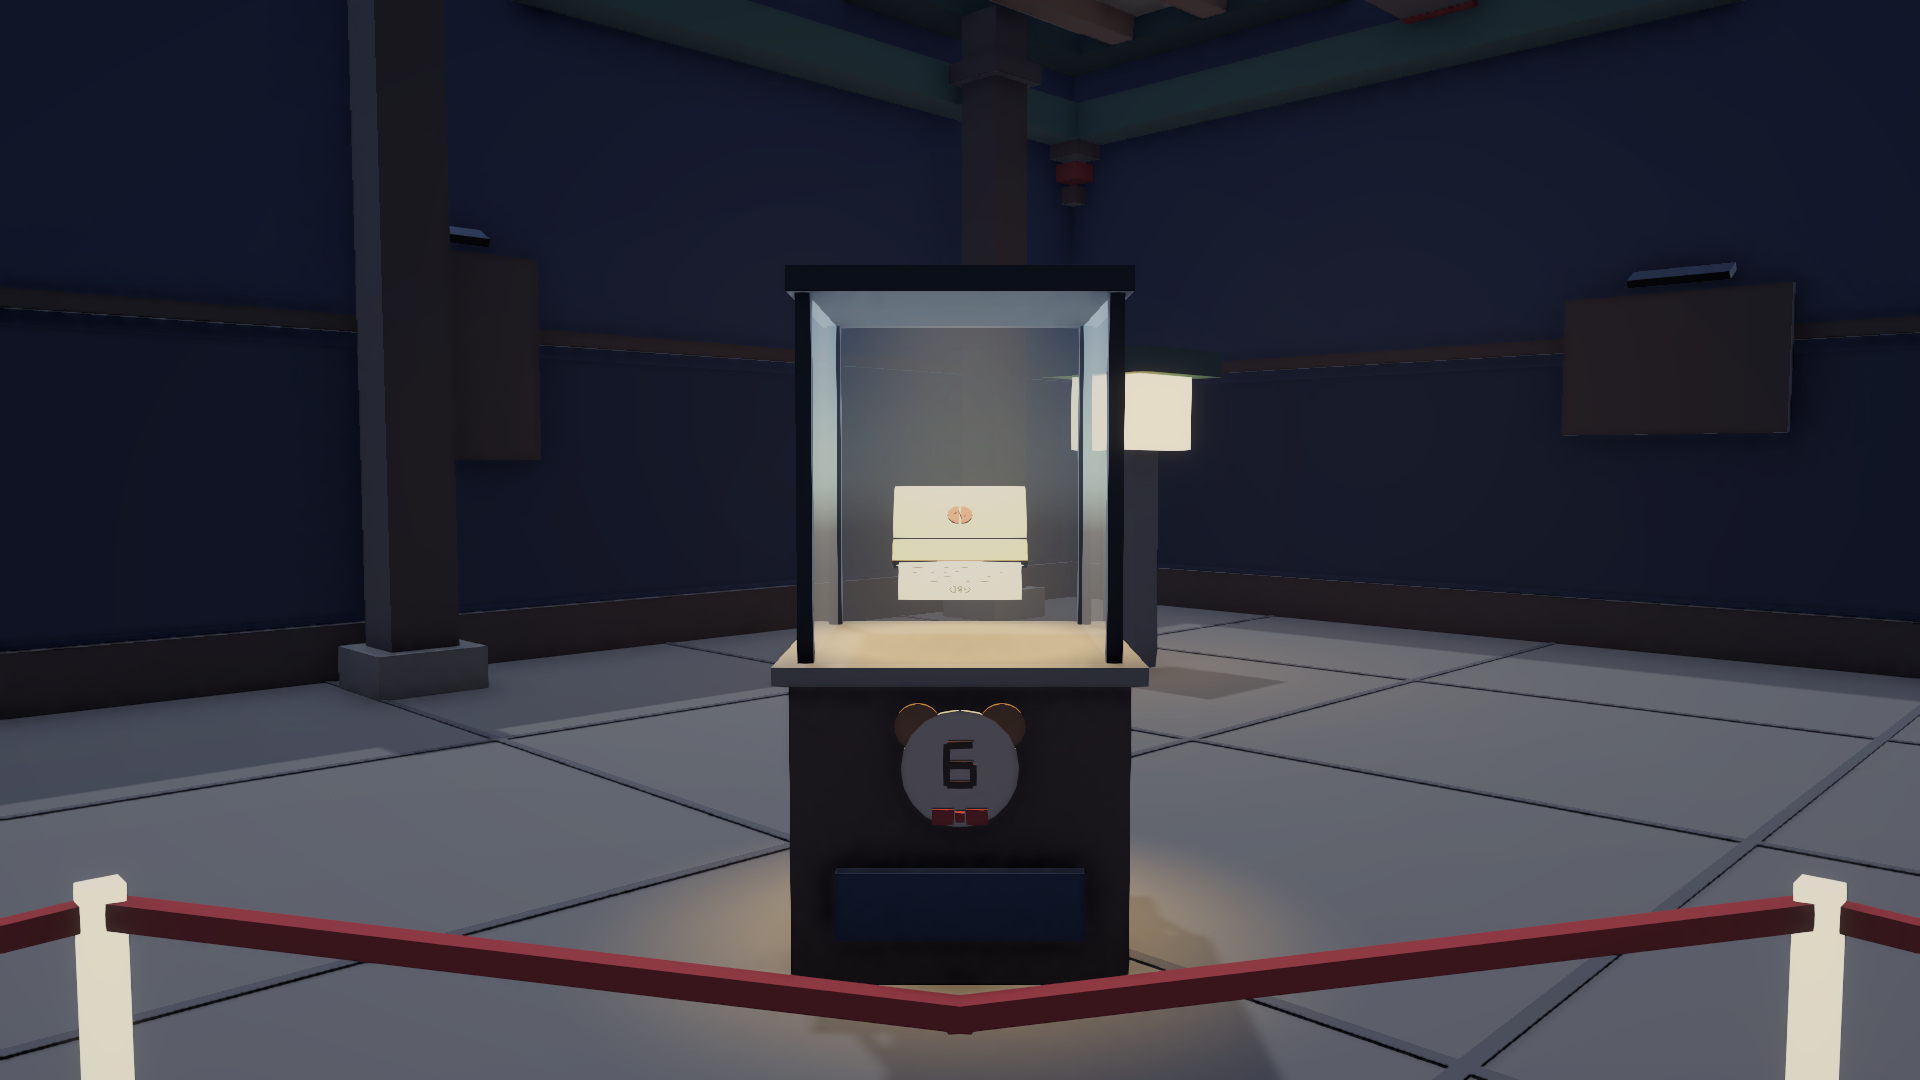
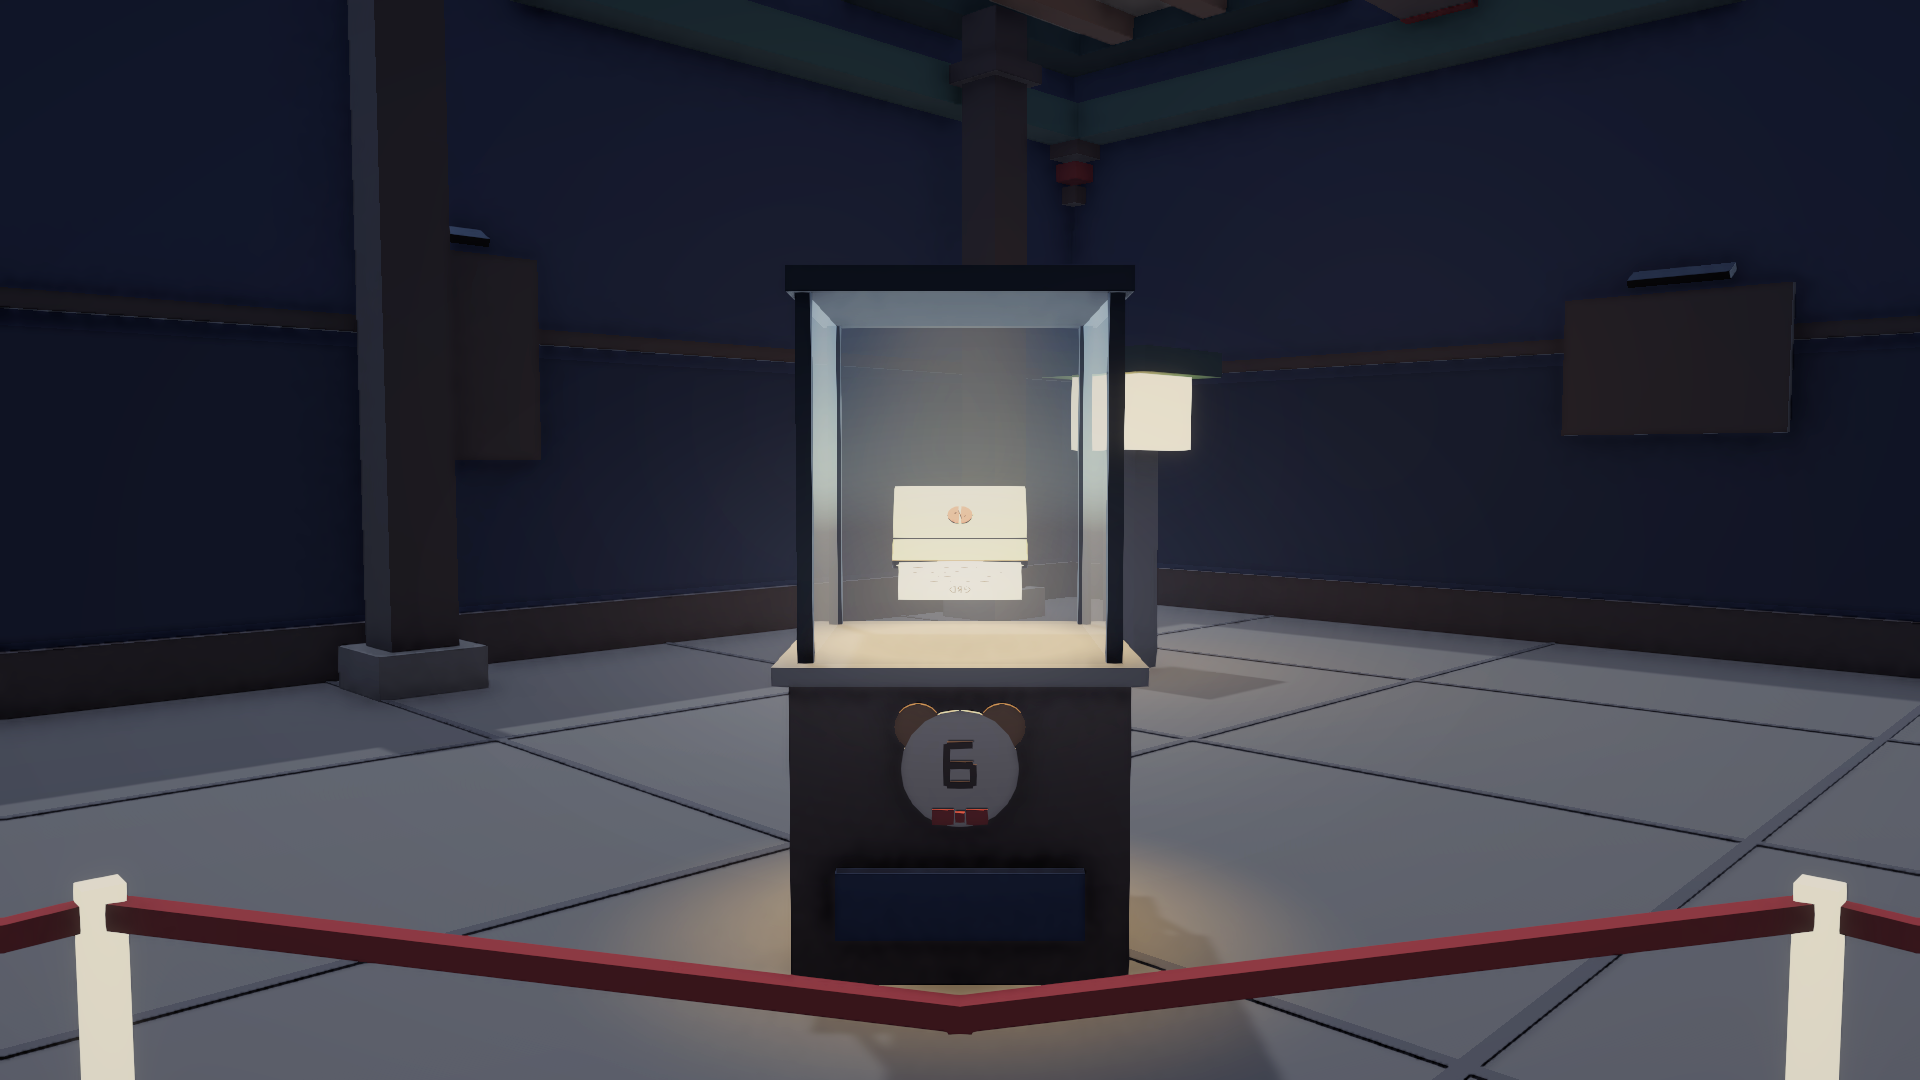
feat: 획득 연출을 밝혔다 · 8판에 기믹(심사단 플래시) · 자가점검
① 상품이 잘 안 보이던 것
   제작자: *"증거 진단서 원본이 잘 안 비친다. 전시실 조명 말고 오브젝트 밝기."*
   배경 그림 아홉 장에서 <b>빛줄기가 꽂히는 자리만</b> 감마로 들어올렸다.
   전체를 밝히면 어두운 박물관이라는 분위기가 통째로 날아간다.
     가운데 0.231~0.321 → 0.286~0.378 (약 +18~23%)
     전체   0.171~0.230 → 0.179~0.238 (약 +3%)
   연출 자체의 비네트도 가운데만 0.10 → 0.05 로 걷었다.
   원본은 스크래치패드에 백업.

② 8판에만 기믹이 없었다
   제작자: *"실사차 3대 임무에서 기믹이 없는 것 같은데 괜찮을까."* 맞다 —
   2판 비행선 · 3판 헬기 · 4판 포크레인 · 5판 도장 · 7판 드론과 자재인데
   <b>마지막 판만 세워 둔 차와 사람뿐</b>이라 제일 중요한 판이 제일 조용했다.

   PressFlash — 지나갈 때 심사단이 사진을 찍는다(화면이 0.14초 번쩍).
   ★ <b>판정에는 손대지 않는다.</b> 8판은 이미 담장과 시간 둘을 동시에
     요구해서, 피할 것을 더하면 어려운 게 아니라 벌이 된다.
   세기 0.16 — 0.2 를 넘으면 담장이 안 보인다. 멀어지면 다시 장전해서
   한 바퀴에 다섯 번씩, 세 바퀴에 열다섯 번.

③ 자가점검 — 새로 나온 것 없음
   · F11 충돌 해소 확인(남은 겹침은 전부 다른 씬이다)
   · 이야기 장면 16개 전부 도달 가능 · OnlyIf 조건 둘 다 참이 될 수 있다
   · 제출본 로그 스팸 없음 — 한 세션 Player.log 28KB
   · HingedDoor.doorDebug 기본값 false 확인

Changed region(s): [[0.4062, 0.4583, 0.5938, 0.6417]]

diff --git a/Assets/Scripts/RaceProps.cs b/Assets/Scripts/RaceProps.cs
@@ -305,11 +305,16 @@ public static class RaceProps
             // 8판 — ★ <b>사람이 처음 나타난다.</b> 철거 심사단이 서서 보고 있다.
             //   곰은 사람 앞에서 움직일 수 없다 — 그래서 카트만 나간다. 그 규칙이 눈앞에서 증명된다
             case MissionManager.Goal.완벽:
-                Side(track, "R08_Inspection_Car", 0.02f, 14f);
-                Side(track, "R08_Inspection_Car", 0.05f, 16.5f);
-                Side(track, "R08_Inspection_Car", 0.52f, -15f);
-                People(track, 0.03f, 12.5f, 3);
-                People(track, 0.50f, -13f, 3);
+                // ★ 2026-10-16 — <b>여기만 기믹이 없었다.</b> 세워 둔 차와 사람뿐이라
+                //   제일 중요한 판이 제일 조용했다. <see cref="PressFlash"/> 로
+                //   지나갈 때 사진이 찍힌다 — <b>판정에는 손대지 않는다.</b>
+                //   8판은 이미 담장과 시간 둘을 동시에 요구해서, 피할 것을 더하면 벌이 된다.
+                PressFlash.Forget();
+                Watcher(Side(track, "R08_Inspection_Car", 0.02f, 14f));
+                Watcher(Side(track, "R08_Inspection_Car", 0.05f, 16.5f));
+                Watcher(Side(track, "R08_Inspection_Car", 0.52f, -15f));
+                Watcher(People(track, 0.03f, 12.5f, 3));
+                Watcher(People(track, 0.50f, -13f, 3));
                 break;
 
             // 9판 결승 — 담장이 곰인형 관중으로 가득 차고 비행선 둘이 뜬다
@@ -591,20 +596,31 @@ public static class RaceProps
         }
     }
 
+    /// <summary>
+    /// 지나갈 때 사진이 찍히게 한다. <see cref="PressFlash"/> 를 붙이는 한 줄 —
+    /// 붙일 게 없으면(프리팹을 못 찾았으면) 아무 일도 안 한다.
+    /// </summary>
+    static void Watcher(GameObject go)
+    {
+        if (go != null && go.GetComponent<PressFlash>() == null) go.AddComponent<PressFlash>();
+    }
+
     /// <summary>철거 심사단. 서서 보고 있기만 한다.</summary>
-    static void People(TrackBuilder track, float t, float offset, int count)
+    static GameObject People(TrackBuilder track, float t, float offset, int count)
     {
         var prefab = Resources.Load<GameObject>(Folder + "R10_Inspector_Figure");
-        if (prefab == null) return;
+        if (prefab == null) return null;
 
         string[] pose = { "Person_Stand", "Person_Clipboard", "Person_Point" };
         Vector3 fwd = track.TangentOnPath(t);
         Vector3 side = Vector3.Cross(Vector3.up, fwd);
         Vector3 at = track.transform.position + track.PointOnPath(t) + side * offset;
 
+        GameObject last = null;
         for (int i = 0; i < count; i++)
         {
             var go = Object.Instantiate(prefab, root);
+            last = go;
             go.name = $"Inspector_{i}";
             // 코스를 보게 세운다 — 보고 있다는 게 이 판의 전부야
             go.transform.SetPositionAndRotation(
@@ -619,6 +635,9 @@ public static class RaceProps
                 if (child != null) child.gameObject.SetActive(p == keep);
             }
         }
+
+        // 무리의 자리로 쓴다 — 셋이 1.6m 간격이라 어느 하나를 잡아도 같은 자리다
+        return last;
     }
 }
 

diff --git a/Assets/Scripts/PressFlash.cs b/Assets/Scripts/PressFlash.cs
@@ -1,0 +1,64 @@
+using UnityEngine;
+
+/// <summary>
+/// ★ <b>심사단 카메라 플래시.</b> 8판(마지막 실사)에만 선다. (2026-10-16)
+///
+/// 제작자: *"실사차 3대의 임무에서 기믹이 없는 것 같은데 괜찮을까."*
+/// <b>맞는 지적이다.</b> 다른 판에는 전부 움직이는 게 하나씩 있었다 —
+/// 2판 비행선 · 3판 헬기 불빛 · 4판 포크레인 · 5판 도장 · 7판 드론과 자재.
+/// 그런데 <b>마지막 판만 세워 둔 차와 사람뿐</b>이라, 제일 중요한 판이 제일 조용했다.
+///
+/// ── 왜 «해를 끼치지 않는» 기믹인가 ────────────────────────────────
+/// 8판은 이미 <b>담장 안 긁고 + 시간 안에</b> 둘을 동시에 요구한다.
+/// 여기에 피해야 할 것을 더하면 어려운 게 아니라 <b>벌</b>이 된다.
+/// 그래서 <b>긴장만 올리고 판정에는 손대지 않는다</b> —
+/// 지나갈 때 사진이 찍힌다. 보는 눈이 있다는 걸 몸으로 알려주는 것이 전부다.
+///
+/// 이야기와도 맞는다: 이 판에 <b>사람이 처음 나타난다.</b> 곰은 사람 앞에서
+/// 움직일 수 없어서 카트만 나가는데, 그 규칙이 플래시 한 번에 증명된다.
+/// </summary>
+public class PressFlash : MonoBehaviour
+{
+    [Tooltip("이 거리 안에 들어오면 찍는다")]
+    public float range = 17f;
+
+    [Tooltip("화면이 번쩍이는 세기. 0.2 를 넘으면 담장이 안 보여서 벌이 된다")]
+    public float strength = 0.16f;
+
+    static Transform player;
+    static bool toldOnce;
+
+    bool armed = true;
+
+    void Update()
+    {
+        if (RacePause.On || RaceCountdown.Blocked) return;
+
+        if (player == null)
+        {
+            var kart = FindFirstObjectByType<PlayerKart>();
+            player = kart != null ? kart.transform : null;
+            if (player == null) return;
+        }
+
+        float d = Vector3.Distance(player.position, transform.position);
+
+        // ★ 한 번 찍고 <b>멀어지면 다시 장전한다.</b> 한 판에 한 번만 찍으면
+        //   두세 바퀴째가 조용해지고, 매 프레임 찍으면 화면이 하얘진다.
+        if (armed && d < range)
+        {
+            armed = false;
+            ScreenFlash.Hit(strength, new Color(1f, 0.98f, 0.92f), 0.14f);
+
+            if (!toldOnce)
+            {
+                toldOnce = true;
+                Toast.Show("실사단이 사진을 찍는다");
+            }
+        }
+        else if (!armed && d > range * 1.6f) armed = true;
+    }
+
+    /// <summary>판이 바뀌면 안내를 다시 할 수 있게. <see cref="RaceProps"/> 가 부른다.</summary>
+    public static void Forget() { player = null; toldOnce = false; }
+}

diff --git a/Assets/Scripts/TestHUD.cs b/Assets/Scripts/TestHUD.cs
@@ -275,7 +275,7 @@ public class TestHUD : MonoBehaviour
             float y0 = Mathf.Round(h * i / 10f);
             float y1 = Mathf.Round(h * (i + 1) / 10f);
             Hud.Fill(new Rect(0f, y0, w, y1 - y0),
-                     new Color(0.03f, 0.03f, 0.05f, Mathf.Lerp(0.10f, 0.52f, t) * stage));
+                     new Color(0.03f, 0.03f, 0.05f, Mathf.Lerp(0.05f, 0.52f, t) * stage));
         }
 
         float cx = w * ItemReveal.BeamX;
